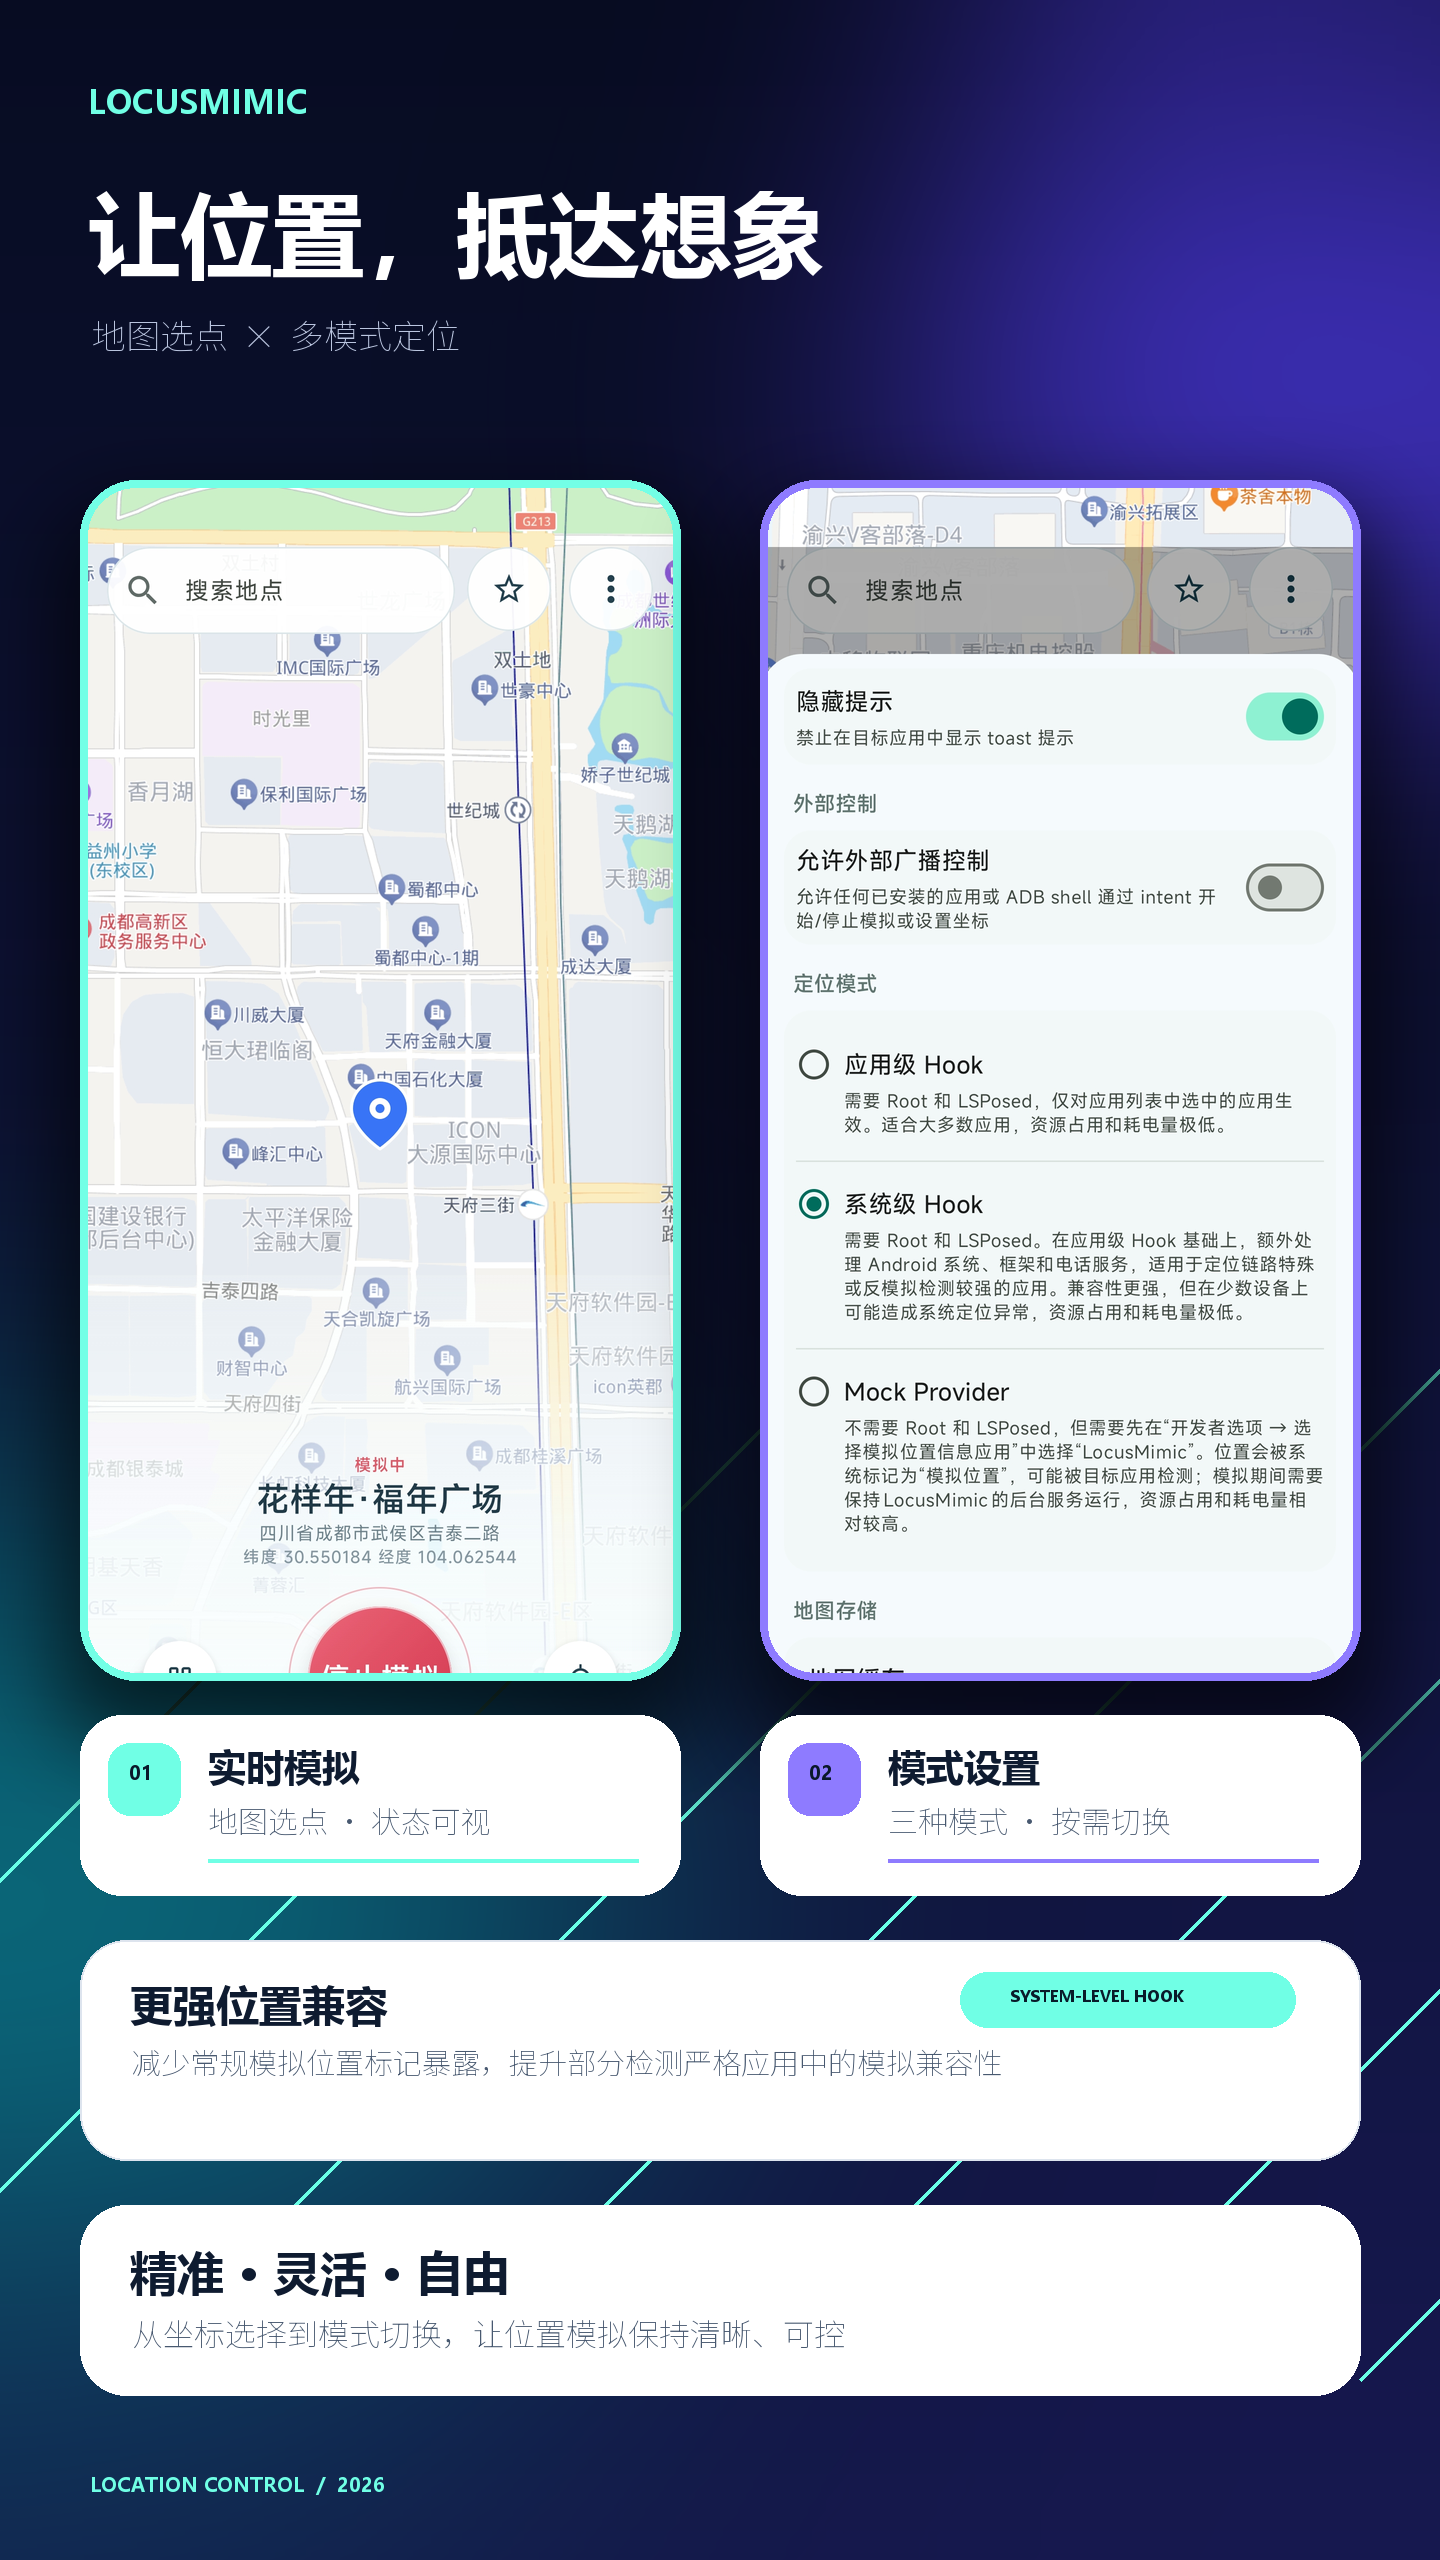
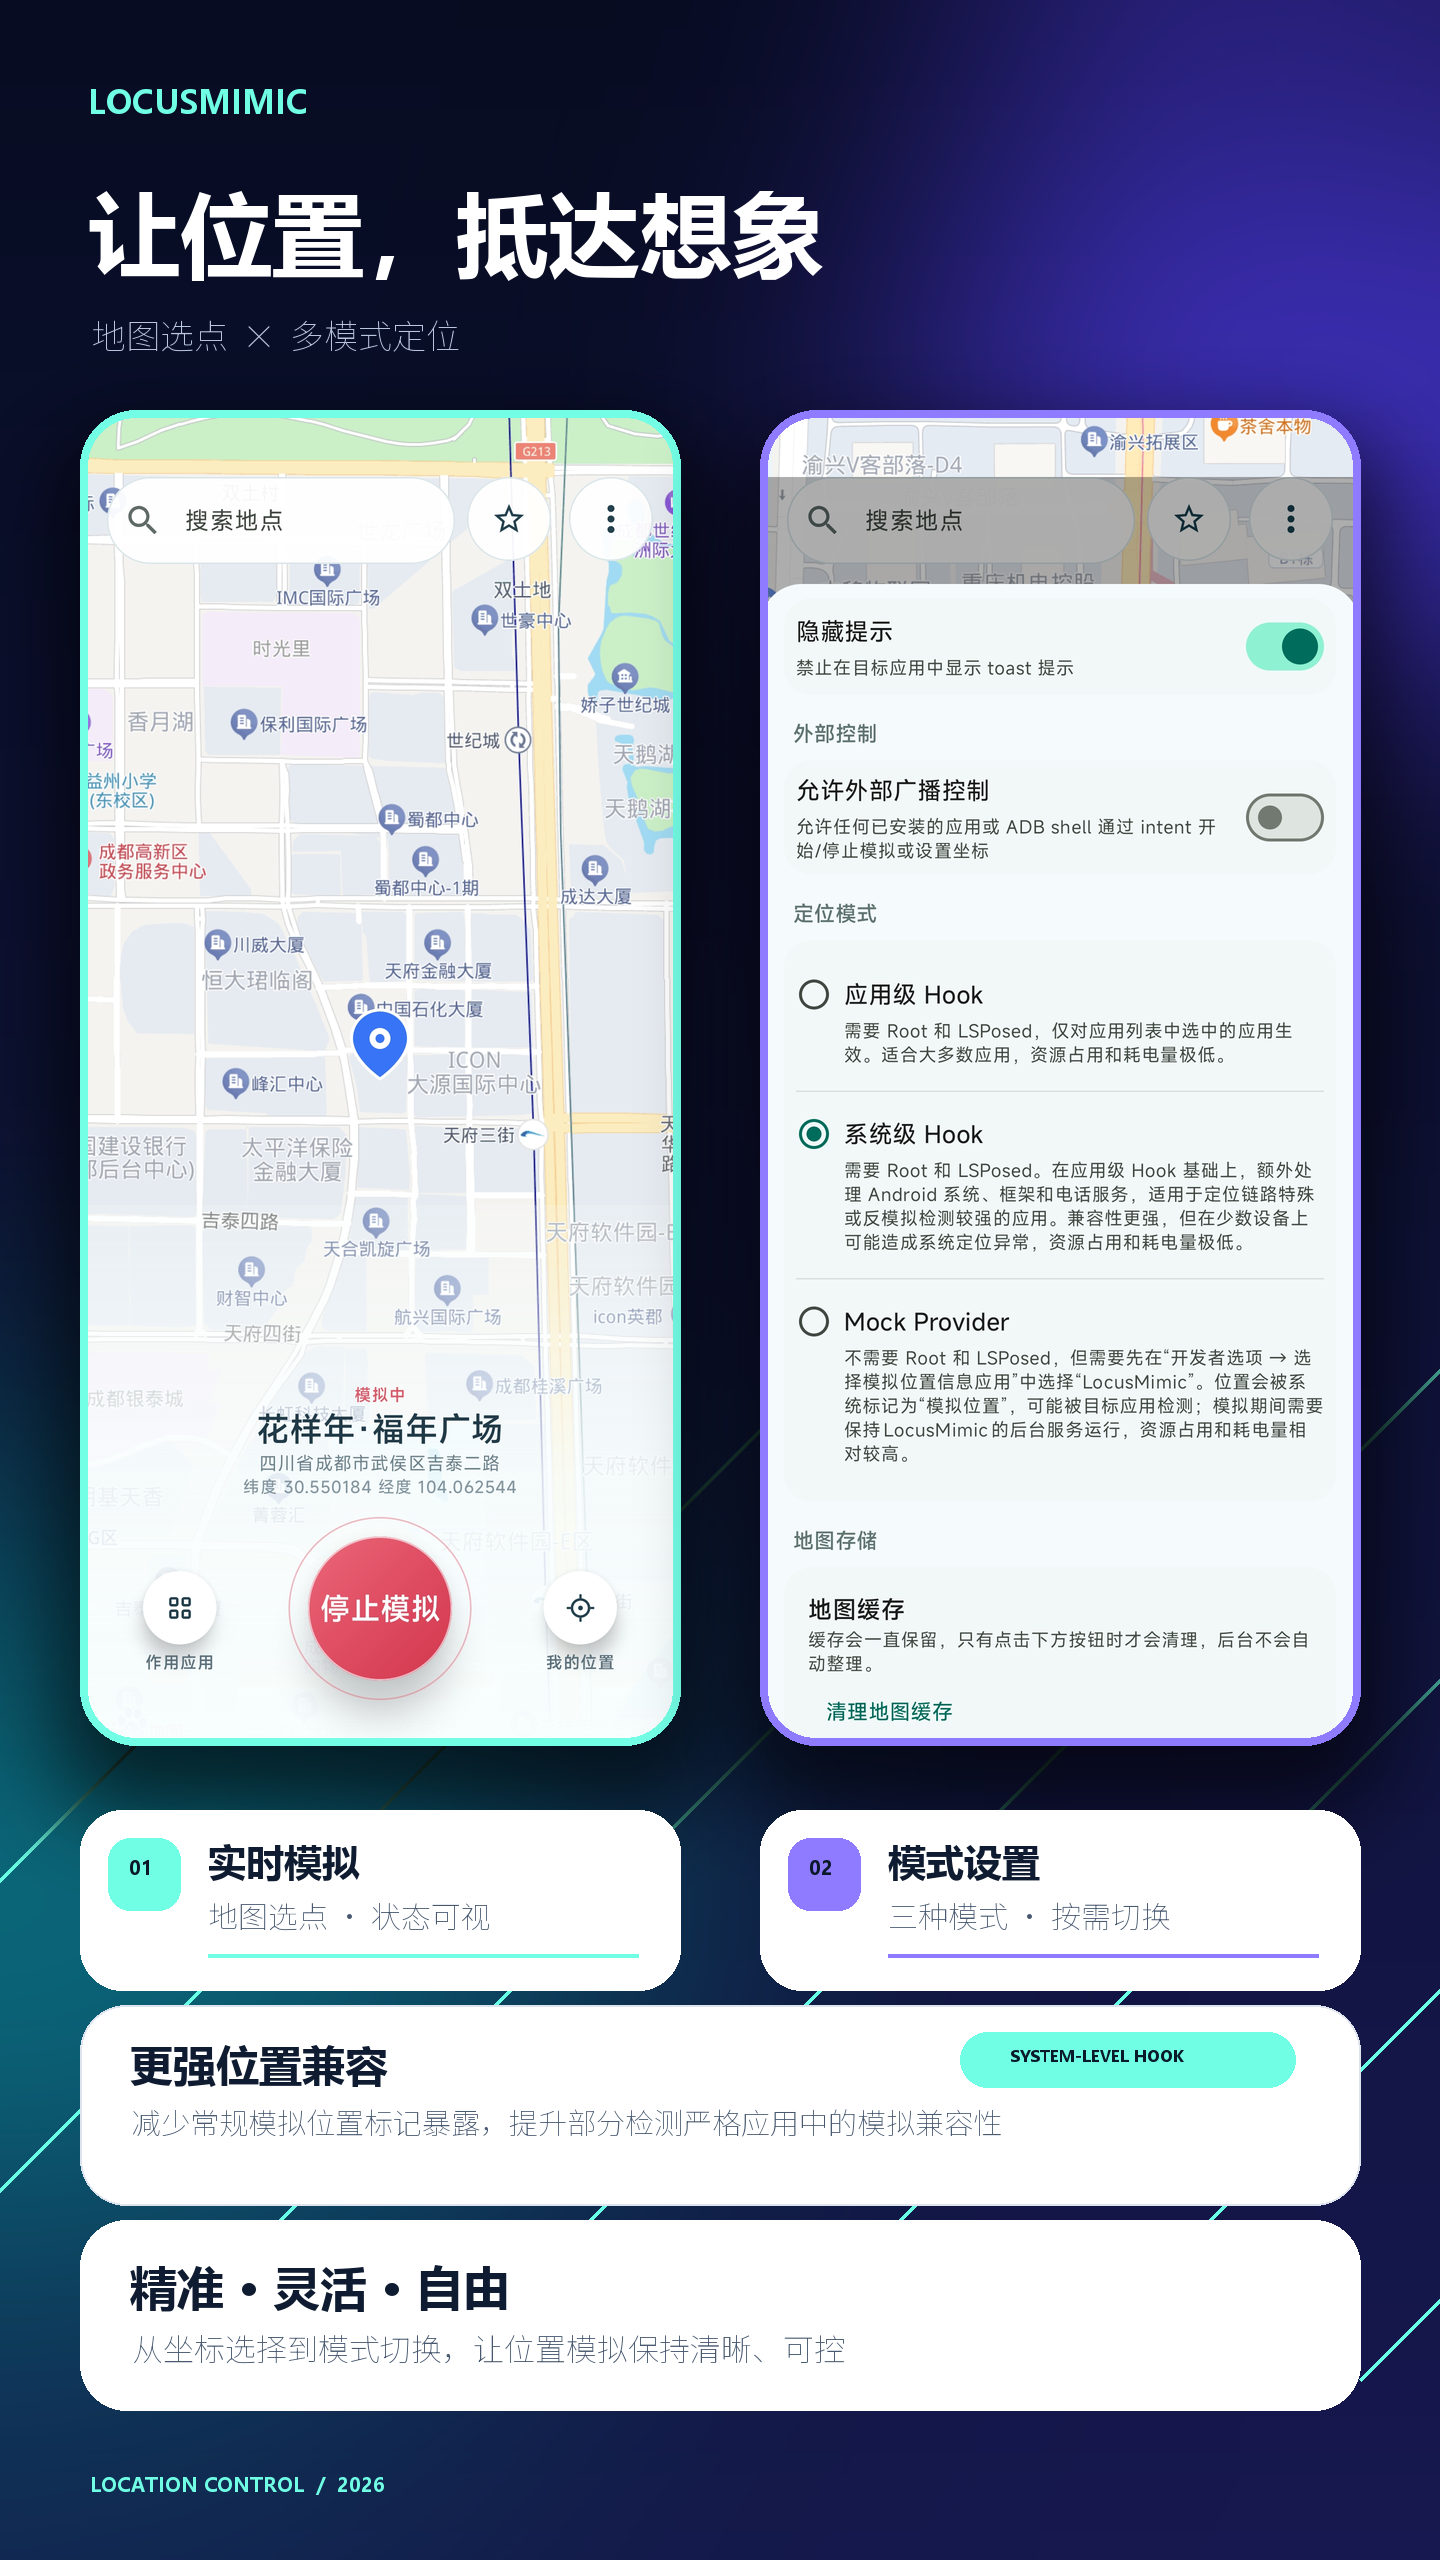
docs: update LocusMimic promotional poster

Changed region(s): [[0.0312, 0.1562, 0.9688, 0.9688]]

diff --git a/README.md b/README.md
@@ -15,10 +15,10 @@ LocusMimic·位置模拟 是一款面向已 Root Android 设备的 Xposed/LSPose
 - 支持可配置经纬度、精度、海拔、速度与随机偏移等位置参数。
 - 支持三种定位模式：应用 Hook、系统 Hook 与 Mock Provider。
 
-## 界面预览
+## 应用界面与功能概览
 
 <p align="center">
-  <img src="docs/images/locusmimic-poster.png" alt="LocusMimic 界面预览" width="58%" />
+  <img src="docs/images/locusmimic-poster.png" alt="LocusMimic 应用界面与功能概览" width="58%" />
 </p>
 
 ## 开发说明
